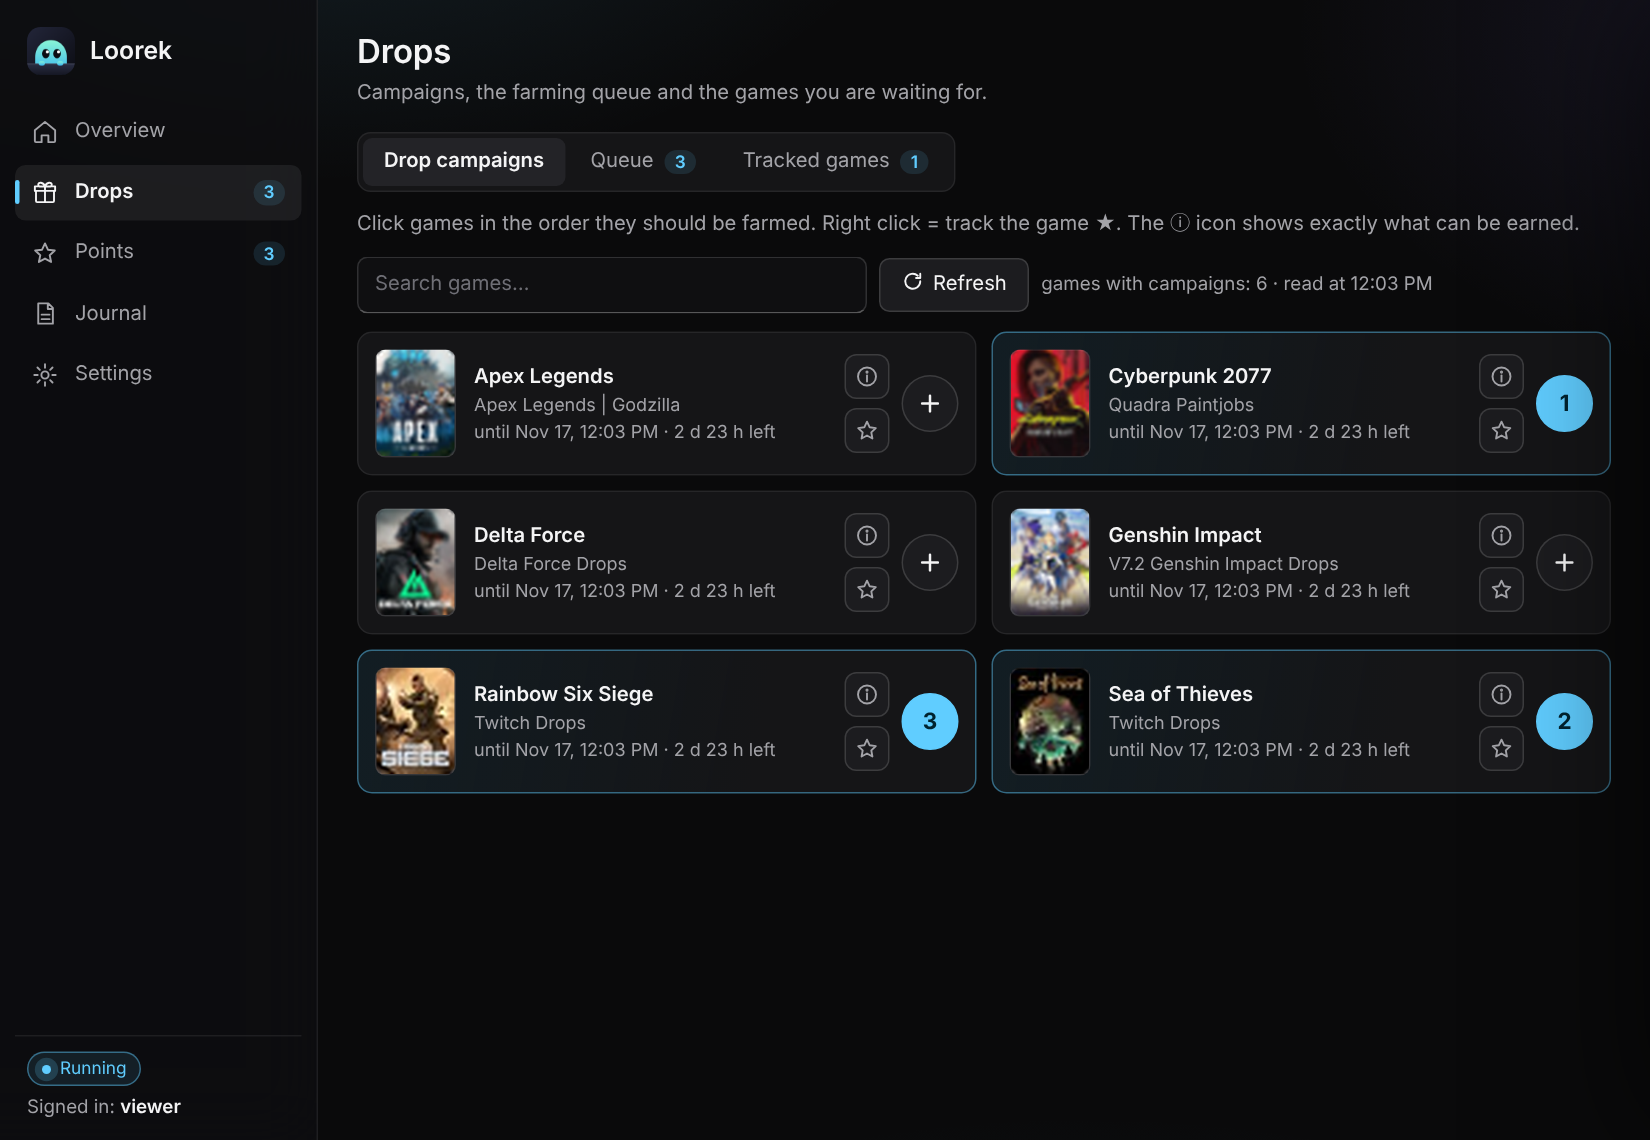
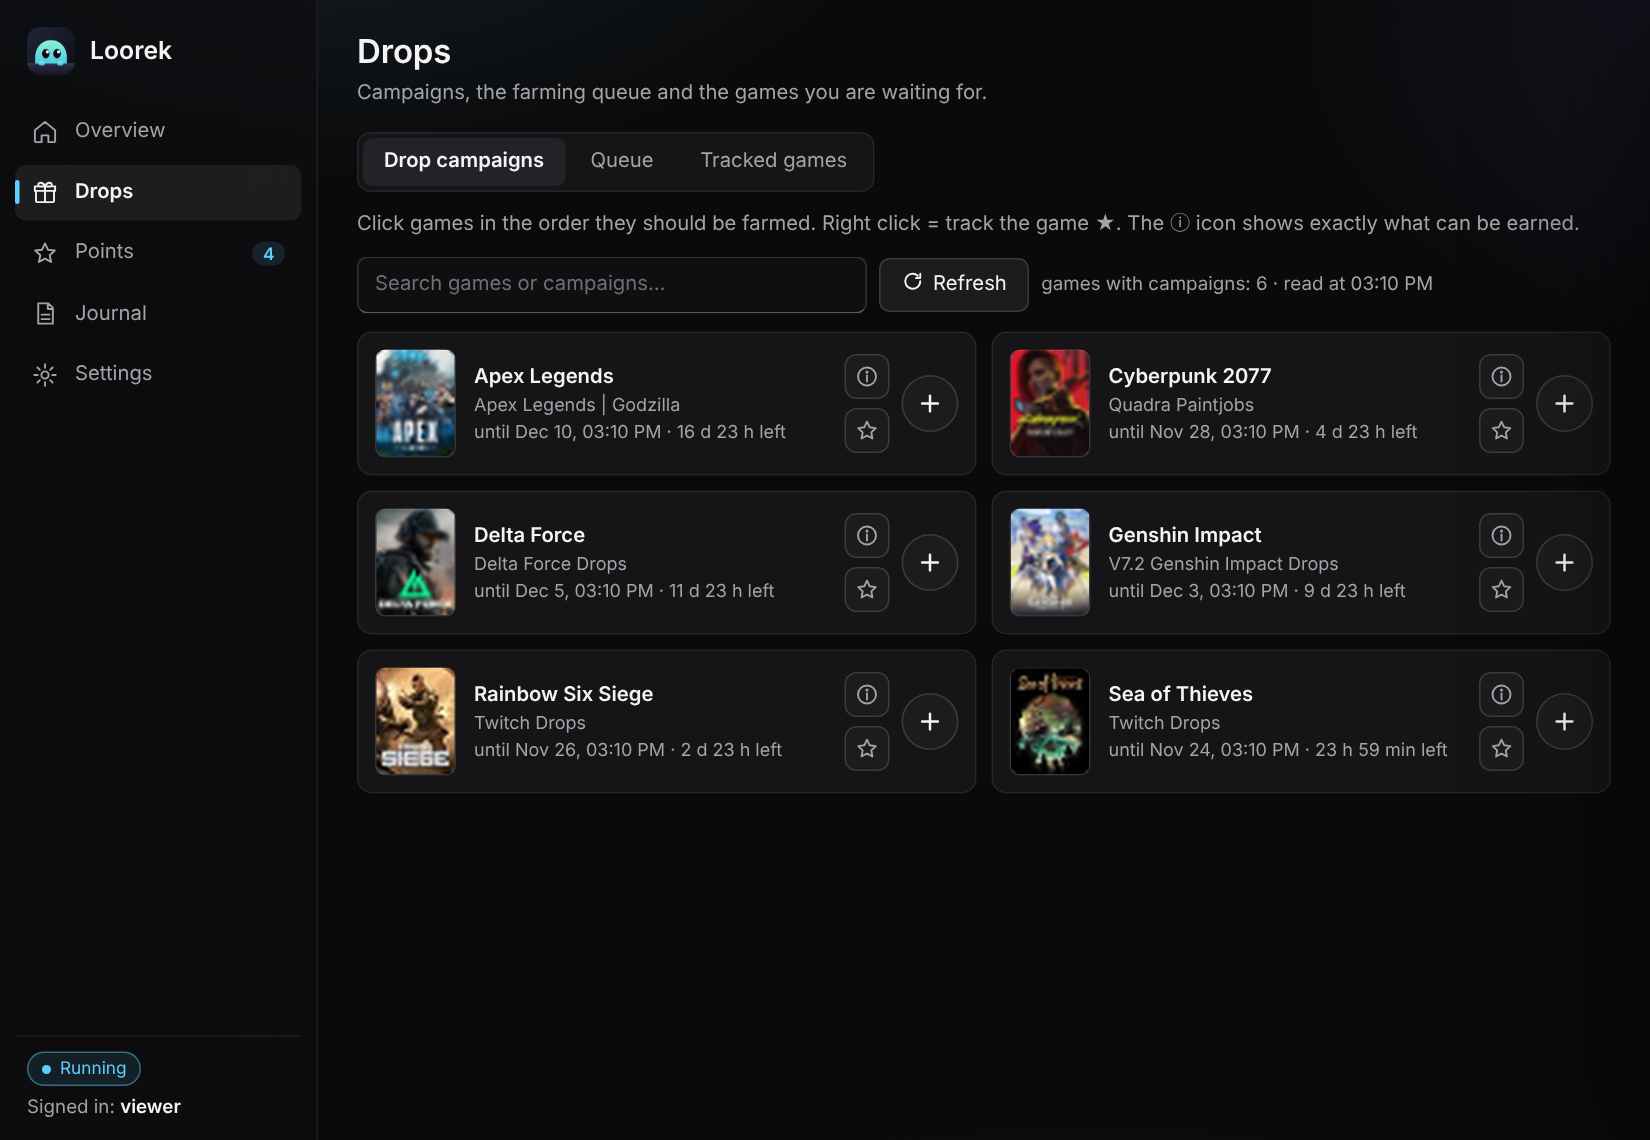
Loorek 0.9.1: fresh screenshots, even tile rows
Claude-Session: https://claude.ai/code/session_01UU8ANsMaRwJ1uWpJmiJaT9

diff --git a/docs/demo/index.html b/docs/demo/index.html
@@ -126,7 +126,7 @@ input[type=number] { width: 70px; text-align: center; }
 .eq i { width: 3px; border-radius: 2px; background: var(--accent); animation: eq 1s ease-in-out infinite; }
 .eq i:nth-child(2) { animation-delay: -.35s; } .eq i:nth-child(3) { animation-delay: -.7s; }
 @keyframes eq { 0%, 100% { height: 4px; } 50% { height: 14px; } }
-.stats { display: grid; grid-template-columns: repeat(auto-fit, minmax(135px, 1fr)); gap: 12px; }
+.stats { display: grid; grid-template-columns: repeat(auto-fit, minmax(120px, 1fr)); gap: 12px; }
 .stat { min-width: 0; }
 
 .stat.use { border-color: rgba(62,207,142,.25); background: linear-gradient(160deg, rgba(62,207,142,.09), transparent), var(--card); }
@@ -556,7 +556,7 @@ select:focus { border-color: var(--accent); }
 </div>
 <div id="toast"></div>
 
-<script>window.LOOREK_VERSION = "0.9.0";</script>
+<script>window.LOOREK_VERSION = "0.9.1";</script>
 <script src="sim.js"></script>
 <script>
 const KEY = '__KEY__';

diff --git a/ui/index.html b/ui/index.html
@@ -125,7 +125,7 @@ input[type=number] { width: 70px; text-align: center; }
 .eq i { width: 3px; border-radius: 2px; background: var(--accent); animation: eq 1s ease-in-out infinite; }
 .eq i:nth-child(2) { animation-delay: -.35s; } .eq i:nth-child(3) { animation-delay: -.7s; }
 @keyframes eq { 0%, 100% { height: 4px; } 50% { height: 14px; } }
-.stats { display: grid; grid-template-columns: repeat(auto-fit, minmax(135px, 1fr)); gap: 12px; }
+.stats { display: grid; grid-template-columns: repeat(auto-fit, minmax(120px, 1fr)); gap: 12px; }
 .stat { min-width: 0; }
 
 .stat.use { border-color: rgba(62,207,142,.25); background: linear-gradient(160deg, rgba(62,207,142,.09), transparent), var(--card); }

diff --git a/engine.go b/engine.go
@@ -9,7 +9,7 @@ import (
 	"time"
 )
 
-var version = "0.9.0" // a variable so that test builds can override it
+var version = "0.9.1" // a variable so that test builds can override it
 const appName = "Loorek"
 
 // speed > 1 shortens every waiting time (tests only: DROPOMAT_FAST).

diff --git a/CHANGELOG.md b/CHANGELOG.md
@@ -1,5 +1,8 @@
 # Changelog
 
+## 0.9.1
+- Home page tiles in two even rows in a narrow window; fresh screenshots in the README.
+
 ## 0.9.0
 - CPU and RAM tiles show a small chart of the last minutes, with min and max chips under it.
 - The home page tiles wrap onto the next row in a narrow window instead of being cut off.
